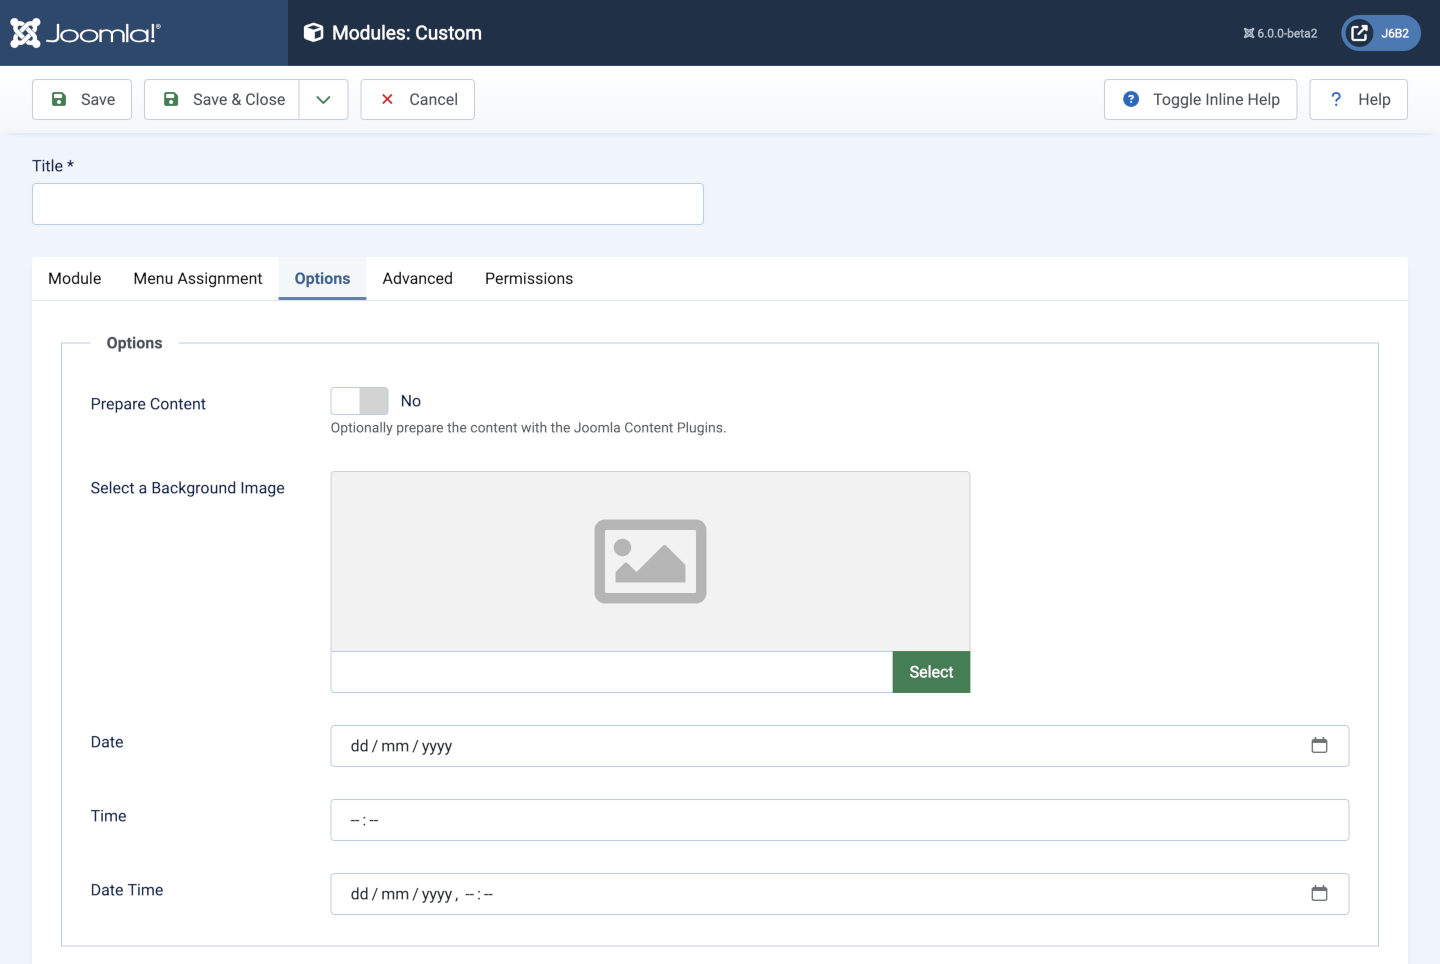
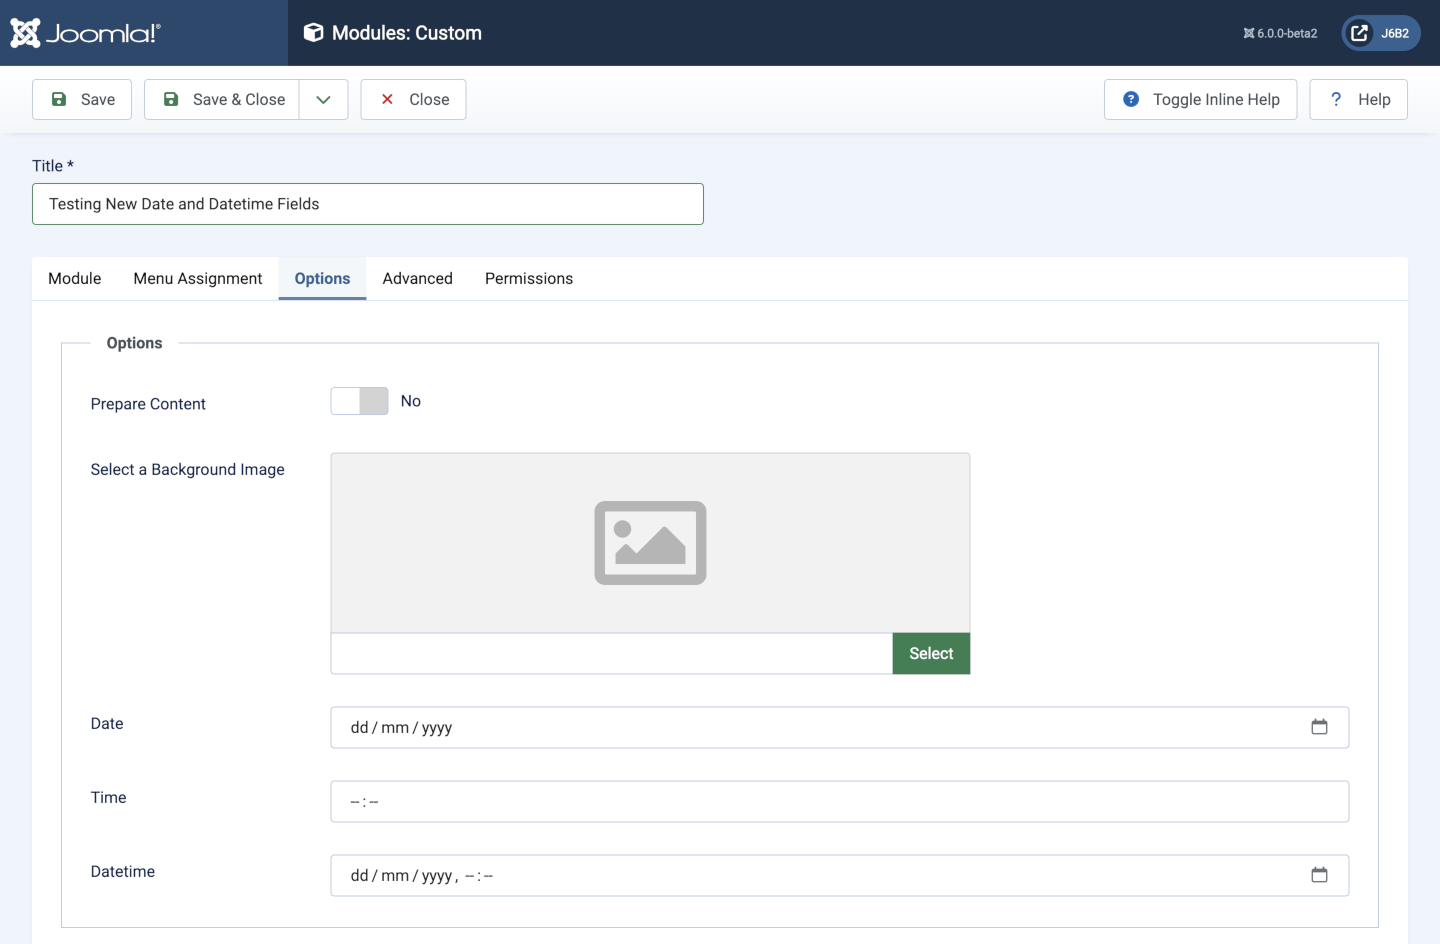
Updated Datetime - removed 'local'

diff --git a/docs/general-concepts/forms-fields/standard-fields/index.md b/docs/general-concepts/forms-fields/standard-fields/index.md
@@ -35,8 +35,8 @@ The following is a full list of all supplied form fields available in this relea
 | [Content Language](./contentlanguage.md)                          | Provides a list of content languages.                                                                                                                                                |
 | [Content Type](./contenttype.md)                                  | Provides a list of content types.                                                                                                                                                    |
 | [Database Connection](./databaseconnection.md)                    | Provides a list of available database connections, optionally limiting to a given list.                                                                                              |
-| [Date](./date.md)                                                | Provides a date selection field.                                                                                                                                                    |
-| [Date-Time Local](./datetimelocal.md)                            | Provides a date and time selection field.                                                                                                                                                    |
+| [Date](./date.md)                                                 | Provides a date selection field.                                                                                                                                                    |
+| [Datetime](./datetime.md)                                         | Provides a date and time selection field.                                                                                                                                                    |
 | [Editor](./editor.md)                                             | Provides an editor area field.                                                                                                                                                       |
 | [Email](./email.md)                                               | Provides an email field.                                                                                                                                                             |
 | [File](./file.md)                                                 | Provides an input field for files                                                                                                                                                    |

diff --git a/docs/general-concepts/forms-fields/standard-fields/datetime.md b/docs/general-concepts/forms-fields/standard-fields/datetime.md
@@ -1,13 +1,12 @@
 ---
 sidebar_position: 2
-title: Date-Time Local Form Field
+title: Datetime Form Field
 ---
 
-Date-Time Local Form Field
-==========================
+Datetime Form Field
+===================
 
-`<input>` elements of type datetime-local create input controls that let the user easily enter both a date and a time, including the year, month, and day as well as the time in hours and minutes.
-
+`<input>` elements of type datetime create input controls that let the user easily enter both a date and a time, including the year, month and day as well as the time in hours and minutes. Filters are available to set the date and time to either the Server or User timezone.
 
 ## Fields
 
@@ -15,6 +14,7 @@ Date-Time Local Form Field
 - **name** any name to distinguish field this from all others.
 - **label** the translatable label displayed for data entry.
 - **description** the translatable description displayed for data entry.
+- **filter** may be *SERVER_UTC* or *USER_UTC*. The default is *SERVER_UTC*.
 
 ## Example XML parameter definition
 
@@ -30,4 +30,4 @@ Date-Time Local Form Field
 
 ## Screenshot
 
-[Example form containing a date-time field](./_assets/date-time-fields.png)
+![Example form containing a date-time field](./_assets/date-time-fields.png)

diff --git a/docs/general-concepts/forms-fields/standard-fields/date.md b/docs/general-concepts/forms-fields/standard-fields/date.md
@@ -30,4 +30,4 @@ The resulting value includes the year, month, and day, but not the time. The tim
 
 ## Screenshot
 
-[Example form containing a date field](./_assets/date-time-fields.png)
+![Example form containing a date field](./_assets/date-time-fields.png)
